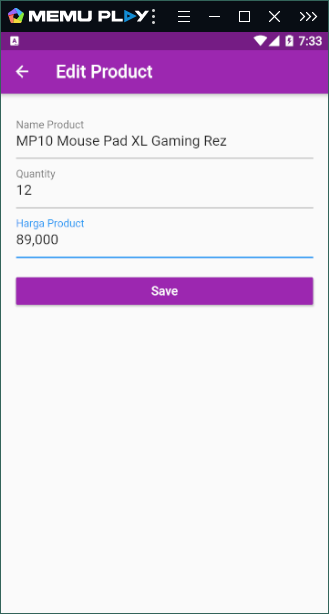
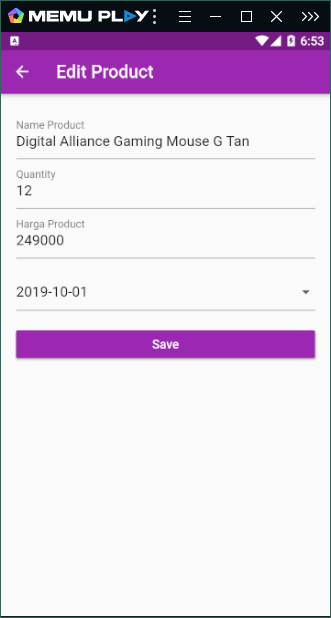
edit datepicker

diff --git a/lib/views/editProduct.dart b/lib/views/editProduct.dart
@@ -3,8 +3,10 @@ import 'dart:convert';
 import 'package:flutter/material.dart';
 import 'package:flutter/services.dart';
 import 'package:fluttertoast/fluttertoast.dart';
+import 'package:intl/intl.dart';
 import 'package:rez_apps/api/server.dart';
 import 'package:rez_apps/custom/currency.dart';
+import 'package:rez_apps/custom/datePicker.dart';
 import 'package:rez_apps/model/productModel.dart';
 import 'package:http/http.dart' as http;
 
@@ -19,12 +21,16 @@ class EditProduct extends StatefulWidget {
 
 class _EditProductState extends State<EditProduct> {
   String namaProduct, qty, harga;
-
   final _key = new GlobalKey<FormState>();
-
   TextEditingController txtName, txtQty, txtHarga;
+  String pilihTanggal, labelText;
+  DateTime tgl = new DateTime.now();
+  final TextStyle valueStyle = TextStyle(fontSize: 16.0);
+  String tglDate;
+  var formatTgl = new DateFormat('yyyy-MM-dd');
 
   setup() {
+    tglDate = widget.model.releasepro;
     txtName = TextEditingController(text: widget.model.namaProduct);
     txtQty = TextEditingController(text: widget.model.qty);
     txtHarga = TextEditingController(text: widget.model.harga);
@@ -43,7 +49,8 @@ class _EditProductState extends State<EditProduct> {
       "namaProduct": namaProduct,
       "qty": qty,
       "harga": harga.replaceAll(",", ""),
-      "idProduct": widget.model.id
+      "idProduct": widget.model.id,
+      "releasepro" : tglDate
     });
     final data = jsonDecode(response.body);
     int value = data['value'];
@@ -56,6 +63,20 @@ class _EditProductState extends State<EditProduct> {
       });
     } else {
       Fluttertoast.showToast(msg: message, toastLength: Toast.LENGTH_SHORT);
+    }
+  }
+
+  Future<void> _selectedDate(BuildContext context) async {
+    final DateTime picked = await showDatePicker(
+        context: context,
+        initialDate: tgl,
+        firstDate: DateTime(2012),
+        lastDate: DateTime(2099));
+    if (picked != null || picked != tgl) {
+      setState(() {
+       tgl = picked;
+       tglDate = formatTgl.format(tgl);
+      });
     }
   }
 
@@ -111,11 +132,21 @@ class _EditProductState extends State<EditProduct> {
                   return null;
                 },
                 inputFormatters: [
-                  WhitelistingTextInputFormatter.digitsOnly, CurrencyFormat()
+                  WhitelistingTextInputFormatter.digitsOnly,
+                  CurrencyFormat()
                 ],
                 onSaved: (e) => harga = e,
                 decoration: InputDecoration(
                     labelText: "Harga Product", hintText: "Harga Product"),
+              ),
+              Padding(padding: EdgeInsets.only(top: 20.0)),
+              DateDropdwon(
+                labelText: labelText,
+                valueText: tglDate,
+                valueStyle: valueStyle,
+                onPressed: (){
+                  _selectedDate(context);
+                },
               ),
               Padding(padding: EdgeInsets.only(top: 20.0)),
               MaterialButton(

diff --git a/lib/model/productModel.dart b/lib/model/productModel.dart
@@ -7,7 +7,8 @@ class ProductModel {
   final String idUsers;
   final String name;
   final String image;
+  final String releasepro;
 
-  ProductModel(this.id, this.namaProduct, this.qty, this.harga, this.created_at, this.idUsers, this.name, this.image);
+  ProductModel(this.id, this.namaProduct, this.qty, this.harga, this.created_at, this.idUsers, this.name, this.image, this.releasepro);
 
 }

diff --git a/lib/views/bottombar.dart b/lib/views/bottombar.dart
@@ -19,7 +19,7 @@ class _BottomBarzState extends State<BottomBarz> with TickerProviderStateMixin {
   signOut() async {
     SharedPreferences preferences = await SharedPreferences.getInstance();
     setState(() {
-      preferences.setInt("value", null);
+      preferences.setString("level", null);
       preferences.commit();
       _loginStatus = LoginStatus.notSignIn;
     });

diff --git a/lib/views/login.dart b/lib/views/login.dart
@@ -94,7 +94,7 @@ class _LoginPageState extends State<LoginPage> {
     setState(() {
       value = preferences.getString("level");
 
-      _loginStatus = value == 1
+      _loginStatus = value == "1"
           ? LoginStatus.signIn
           : value == "2" ? LoginStatus.singInUsers : LoginStatus.notSignIn;
     });

diff --git a/lib/views/product.dart b/lib/views/product.dart
@@ -57,6 +57,7 @@ class _ProductState extends State<Product> {
           api['idUsers'],
           api['name'],
           api['image'],
+          api['releasepro'],
         );
         // untuk menamilkan data panggil list di isi dengan value pModel
         list.add(pModel);

diff --git a/lib/views/homeUser.dart b/lib/views/homeUser.dart
@@ -56,6 +56,7 @@ class _HomeUsersState extends State<HomeUsers> {
           api['idUsers'],
           api['name'],
           api['image'],
+          api['releasepro'],
         );
         list.add(pModel);
       });
